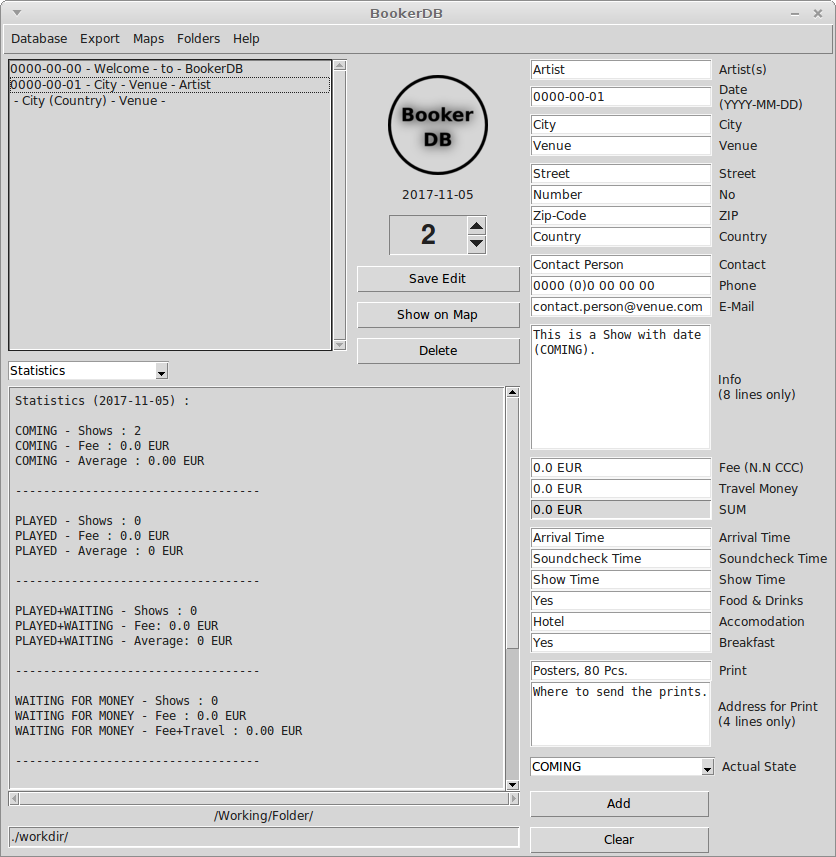
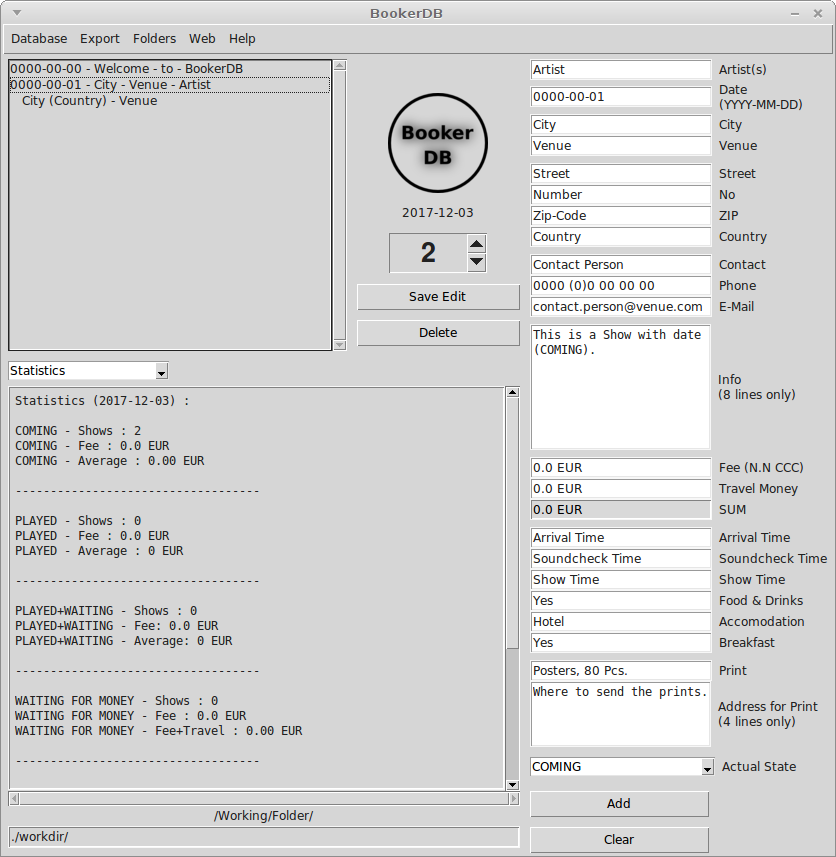
version 0.2.2

Changed region(s): [[0.4354, 0.091, 0.622, 0.4247], [0.1555, 0.0303, 0.311, 0.0607]]

diff --git a/BookerDB.py b/BookerDB.py
@@ -1,6 +1,4 @@
 # BookerDB - Open Source Show Management System
-# Version 0.2.1
-
 
 from reportlab.pdfgen import canvas
 from reportlab.lib.pagesizes import A4
@@ -17,6 +15,7 @@ from tkinter import messagebox
 from tkinter.font import Font
 
 
+version = "0.2.2"
 
 data_file = "data.csv"
 
@@ -38,8 +37,6 @@ today = date_time[:10]
 
 pdf_ypos = +20
 
-map_select = 0
-
 
 white = "#ffffff"
 black = "#000000"
@@ -59,17 +56,11 @@ state_list = ("COMING", "PLAYED", "WAITING FOR MONEY", "CANCELLED", "CONTACT ONL
 
 # about
 def about_app():
-    messagebox.showinfo("About", "BookerDB 0.2.1\nby Vincent Rateau\nwww.sonejo.net\n\nLicensed under GPL 3.0")
+    messagebox.showinfo("About", "BookerDB " + version + "\nby Vincent Rateau\nwww.sonejo.net\n\nLicensed under GPL 3.0")
 
 def website():
     webbrowser.open_new_tab("https://github.com/sonejostudios/BookerDB")
 
-def websearch():
-    venue = venue_entry.get()
-    city = city_entry.get()
-    country = country_entry.get()
-
-    webbrowser.open_new_tab("https://duckduckgo.com/?q=" + venue + "+" + city + "+" + country)
 
 
 
@@ -207,31 +198,12 @@ def state_check(event):
 
 
 # maps
-def show_on_map():
-    if map_select == 0:
-        show_map("osm")
-    else:
-        show_map("gmaps")
-
 def show_osm():
-    global map_select
-    map_select = 0
-    mapsmenu.entryconfig(0, label="Show on OSM *")
-    mapsmenu.entryconfig(1, label="Show on GMaps")
-    #map.config(text="Show on OSM")
-    #show_map("osm")
-    notify("Show Venues on OSM.")
+    show_map("osm")
 
 
 def show_gmaps():
-    global map_select
-    map_select = 1
-    mapsmenu.entryconfig(1, label="Show on GMaps *")
-    mapsmenu.entryconfig(0, label="Show on OSM")
-    #map.config(text="Show on GMaps")
-    #show_map("gmaps")
-    notify("Show Venues on GMaps.")
-
+    show_map("gmaps")
 
 def show_map(x):
     city = city_entry.get()
@@ -243,15 +215,64 @@ def show_map(x):
     country = country_entry.get()
     country2 = country.replace(" ", "+")
 
+    # osm
+    if x == "osm":
+        webbrowser.open_new_tab("https://duckduckgo.com/?q=!osm+" + country2 + "+" + city2 + "+" + street2 + "+" + nr2)
+
     # gmaps
-    if x == "gmaps":
-        webbrowser.open_new_tab("https://www.google.de/maps/place/" + country2 + "+" + city2 + "+" + street2 + "+" + nr2)
-
-    # open street map
     else:
-        webbrowser.open_new_tab("https://www.openstreetmap.org/search?query=" + country2 + "+" + city2 + "+" + street2 + "+" + nr2)
+        webbrowser.open_new_tab("https://duckduckgo.com/?q=!m+" + country2 + "+" + city2 + "+" + street2 + "+" + nr2)
 
 
+# web search
+def web_ddgo():
+    websearch("ddgo")
+
+def web_g():
+    websearch("g")
+
+def web_images():
+    websearch("images")
+
+def web_yt():
+    websearch("yt")
+
+def web_fb():
+    websearch("fb")
+
+def web_sc():
+    websearch("sc")
+
+def mailto():
+    websearch("mailto")
+
+
+def websearch(x):
+    venue = venue_entry.get()
+    city = city_entry.get()
+    country = country_entry.get()
+    email = email_entry.get()
+
+    if x == "ddgo":
+        webbrowser.open_new_tab("https://duckduckgo.com/?q=" + venue + "+" + city + "+" + country)
+
+    elif x == "g":
+        webbrowser.open_new_tab("https://duckduckgo.com/?q=!g+" + venue + "+" + city + "+" + country)
+
+    elif x == "images":
+        webbrowser.open_new_tab("https://duckduckgo.com/?q=!i+" + venue + "+" + city + "+" + country)
+
+    elif x == "yt":
+        webbrowser.open_new_tab("https://duckduckgo.com/?q=!yt+" + venue + "+" + city + "+" + country)
+
+    elif x == "fb":
+        webbrowser.open_new_tab("https://duckduckgo.com/?q=!fb+" + venue + "+" + city + "+" + country)
+
+    elif x == "sc":
+        webbrowser.open_new_tab("https://duckduckgo.com/?q=!sc+" + venue + "+" + city + "+" + country)
+
+    elif x == "mailto":
+        webbrowser.open_new_tab("mailto:" + email)
 
 
 
@@ -1341,17 +1362,6 @@ spin.pack(padx=5, pady=5)
 replace= ttk.Button(button_frame, text="Save Edit", width=19, state="normal", command= on_replace_click)
 replace.pack(padx=5, pady=5, )
 
-# Button
-map= ttk.Button(button_frame, text="Show on Map", width=19, state="normal", command= show_on_map)
-map.pack(padx=5, pady=5, )
-
-# Button
-#pdf= ttk.Button(button_frame, text="Export This Show to PDF", width=19, state="normal", command= import_one_data)
-#pdf.pack(padx=5, pady=5, )
-
-# Button
-map= ttk.Button(button_frame, text="Web Search", width=19, state="normal", command= websearch)
-map.pack(padx=5, pady=5, )
 
 # Button
 delete_button = ttk.Button(button_frame, text="Delete", width=19, command= on_delete_entry_click)
@@ -1673,12 +1683,6 @@ exportmenu.add_separator()
 exportmenu.add_command(label="Export Monitor to TXT", command=on_export_monitor)
 menubar.add_cascade(label="Export", menu=exportmenu)
 
-# Maps
-mapsmenu = Menu(menubar, tearoff=0)
-mapsmenu.add_command(label="Show on OSM *", command=show_osm)
-mapsmenu.add_command(label="Show on GMaps", command=show_gmaps)
-menubar.add_cascade(label="Maps", menu=mapsmenu)
-
 # Folders
 foldermenu = Menu(menubar, tearoff=0)
 foldermenu.add_command(label="Open Workdir", command=open_workdir)
@@ -1686,9 +1690,26 @@ foldermenu.add_command(label="Open Backupdir", command=open_bakdir)
 foldermenu.add_command(label="Open Rootdir", command=open_rootdir)
 menubar.add_cascade(label="Folders", menu=foldermenu)
 
+
+# Web direct links
+weblinks = Menu(menubar, tearoff=0)
+weblinks.add_command(label="Show on OSM", command=show_osm)
+weblinks.add_command(label="Show on GMaps", command=show_gmaps)
+weblinks.add_separator()
+weblinks.add_command(label="Web Search DDGo", command=web_ddgo)
+weblinks.add_command(label="Web Search G", command=web_g)
+weblinks.add_separator()
+weblinks.add_command(label="Web Search Images", command=web_images)
+weblinks.add_command(label="Web Search Yt", command=web_yt)
+weblinks.add_command(label="Web Search Fb", command=web_fb)
+weblinks.add_command(label="Web Search Sc", command=web_sc)
+weblinks.add_separator()
+weblinks.add_command(label="E-Mail to Contact", command=mailto)
+menubar.add_cascade(label="Web", menu=weblinks)
+
+
 # Help
 helpmenu = Menu(menubar, tearoff=0)
-helpmenu.add_command(label="Web Search", command=websearch)
 helpmenu.add_command(label="GitHub", command=website)
 helpmenu.add_command(label="About", command=about_app)
 menubar.add_cascade(label="Help", menu=helpmenu)

diff --git a/README.md b/README.md
@@ -14,12 +14,13 @@ It has a monitor to show all kind of filters around the database, like coming da
 __Features:__
 
 * Add/Save/Delete Shows
-* Monitor Filters COMING, PLAYED, WAITING, CANCELLED, CONTACT, City, Country, Venue, Artist, Contacts, etc...
+* Monitor Filters COMING, PLAYED, WAITING, CANCELLED, CONTACT ONLY, City, Country, Venue, Artist, Contacts, etc...
 * Statistics
 * Notes
 * Export Show(s) to PDF file(s)
 * Export Monitor to text file (i.e for printing)
 * View show location on OSM or Gmaps (via Web Browser)
+* Direct Links to Search engines, Youtube, Facebook, Soundcloud, Mails, etc 
 * Import/Export database to Working Folder. 
 * Remote Working Folder (in cloud) handling (locked when imported, unlocked when exported)
 * Use your own logo
@@ -70,6 +71,61 @@ __Tips and Tricks:__
 * Use TAB while adding shows, it is specially designed to go through all entries in the right order.
 * If you want to use BookerDB with different artists and different working folders, just install it several time on your computer. So you can have different remote working folder with each artist and you can also change the logo for each artist.
 
+
+
+__Menu:__
+
+Database:
+* DB Backup: This makes a Backup of the Database with date and time. It will be stored in the Backup forlder (bak in the app's main folder). You can access this folder directly via the menu Folder/Backupdir.
+* Import from Workdir: This imports the Database from the working directory (if exported there before) to the app's root directory. This in only interesting if the working directory is pointed to a cloud folder and used between different people. Importing the Database from Workdir will lock the database in the working directory, so nobody else can import it until it is exported back.
+* Export to Workdir: Export the Database from the App's root directory to the working directoty. This will also unlock the Database in the working directory.
+
+
+Export:
+* Export This Show to PDF: This will export the selected to to PDF into the working directory.
+* Export All Shows to PDF: This will export all Shows of the Database to PDFs into the working directory. Usefull to have all PDFs up-to-date with the database entries. Be carefull, this will overwrite all PDFs and depending on the amount of shows, this can take a really long time!
+* Export Monitor to TXT: This will export the current monitor view to a .txt file into the working folder. This will overwrite existing monitor exports. Really useful for sharing and printing.
+
+Folders:
+* Open Workdir: Opens the working directory.
+* Open Backupdir: Opens the backup directory (bak).
+* Open Rootdir: Opens the root directory of BookerDB.
+
+Web:
+* Show on OSM: Try to find the Venue's Address on Open Street Map.
+* Show on GMaps: Try to find the Venue's Adress on Google Maps.
+* Web Search DDGo: Search for the Venue in DuckDuckGo.
+* Web Search G: Search for the Venue on Google Search.
+* Web Search Images: Search for Images on Google Images.
+* Web Search Yt: Search for the Venue on YouTube.
+* Web Search Fb: Search for the Venue on Facebook.
+* Web Search Sc: Search for the Venue on Soundcloud.
+* E-Mail to Contact: Start default mail application with the contact's e-mail.
+
+(All Web Links are handled by DuckDuckGo with the Bang Syntax).
+
+Help:
+* Github: Direct link to BookerDB's Github.
+* About: About BookerDB and version number.
+
+
+__Buttons:__
+
+* Save Edit: Save the current entry. If you are editing the very first entry, this will jump to the second one after saving due to database handling.
+* Delete: Delete the current entry.
+* Add: Create a new entry with the current informations. Also useful for copying entries.
+* Clear all fields of the current entry. This will not be saved until the entry is saved via "Save Edit".
+
+Important Feature: Keep in mind BookerDB is just a "mirror" to the database. That means, nothing will be saved util it is explecitely saved via "Save Edit".
+
+
+__Actual States:__
+
+* COMING: Coming shows.
+* PLAYED: Played and paid shows (completely done).
+* WAITING FOR MONEY: Played but not paid yet, waiting for payment.
+* CANCELLED: Cancelled shows.
+* CONTACT ONLY: A Venue, Contact, Info, but not a organized show. This will insert 9999-99-99 as date, so the will be sorted at the end of the Database (not shown in show list).
 
 
 
